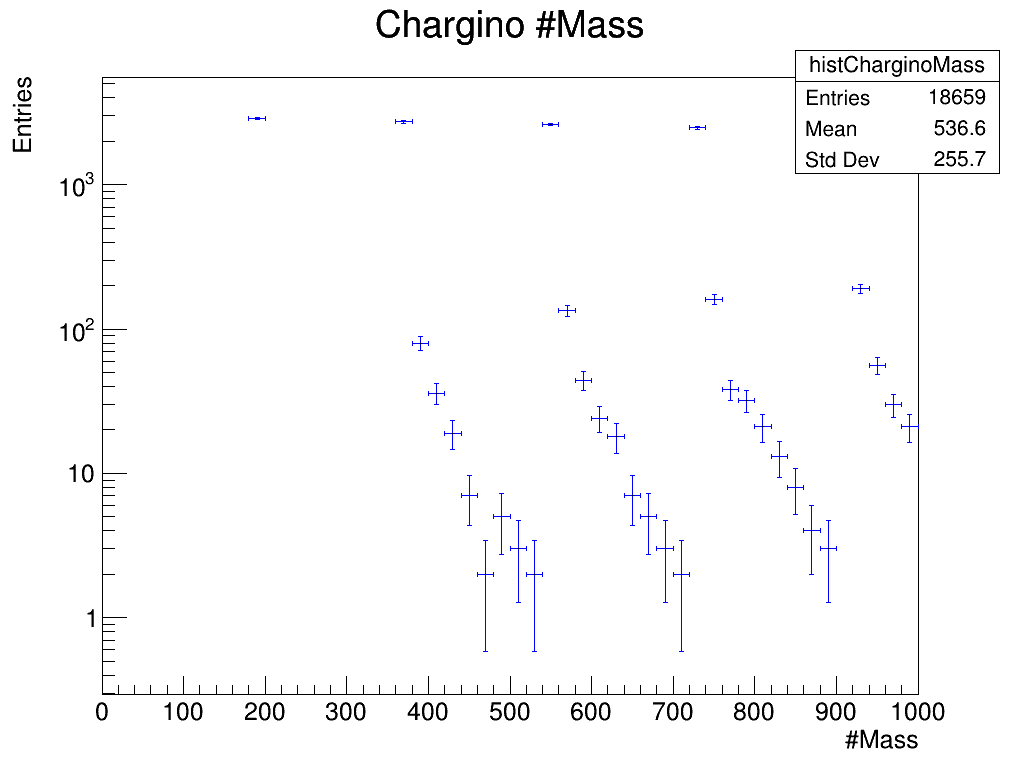
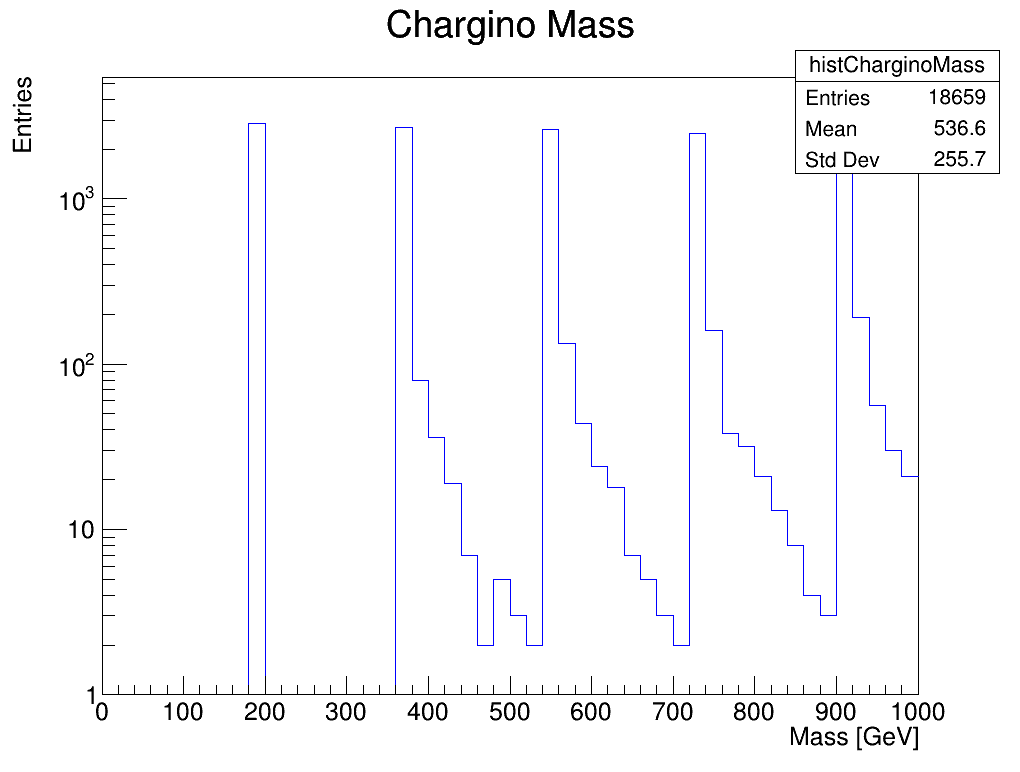
New modifications and plots

diff --git a/ExpPhysFinalProyect/SecondReport/Code/SecondReport_Plotting.C b/ExpPhysFinalProyect/SecondReport/Code/SecondReport_Plotting.C
@@ -26,7 +26,7 @@ void SecondReport_Plotting()
   	histCharginoPT_Data -> GetXaxis() -> SetTitle("p_{T} [GeV]");
   	histCharginoPT_Data -> GetYaxis() -> SetTitle("Entries");
   	histCharginoPT_Data -> GetYaxis() -> SetTitleOffset(1.4);
-  	histCharginoPT_Data -> Draw("e1");
+  	histCharginoPT_Data -> Draw();
 
   	c -> SaveAs("histCharginoPT.png");
 
@@ -52,7 +52,7 @@ void SecondReport_Plotting()
   	histCharginoE_Data -> GetXaxis() -> SetTitle("E [GeV]");
   	histCharginoE_Data -> GetYaxis() -> SetTitle("Entries");
   	histCharginoE_Data -> GetYaxis() -> SetTitleOffset(1.4);
-  	histCharginoE_Data -> Draw("e1");
+  	histCharginoE_Data -> Draw();
 
   	c -> SaveAs("histCharginoE.png");
 
@@ -78,7 +78,7 @@ void SecondReport_Plotting()
   	histCharginoEta_Data -> GetXaxis() -> SetTitle("#eta");
   	histCharginoEta_Data -> GetYaxis() -> SetTitle("Entries");
   	histCharginoEta_Data -> GetYaxis() -> SetTitleOffset(1.4);
-  	histCharginoEta_Data -> Draw("e1");
+  	histCharginoEta_Data -> Draw();
 
   	c -> SaveAs("histCharginoEta.png");
 
@@ -104,7 +104,7 @@ void SecondReport_Plotting()
   	histCharginoPhi_Data -> GetXaxis() -> SetTitle("#phi");
   	histCharginoPhi_Data -> GetYaxis() -> SetTitle("Entries");
   	histCharginoPhi_Data -> GetYaxis() -> SetTitleOffset(1.4);
-  	histCharginoPhi_Data -> Draw("e1");
+  	histCharginoPhi_Data -> Draw();
 
   	c -> SaveAs("histCharginoPhi.png");
 
@@ -126,11 +126,11 @@ void SecondReport_Plotting()
   	
 	histCharginoMass_Data  -> SetLineColor(kBlue);
 
-  	histCharginoMass_Data -> SetTitle("Chargino #Mass");
-  	histCharginoMass_Data -> GetXaxis() -> SetTitle("#Mass");
+  	histCharginoMass_Data -> SetTitle("Chargino Mass");
+  	histCharginoMass_Data -> GetXaxis() -> SetTitle("Mass [GeV]");
   	histCharginoMass_Data -> GetYaxis() -> SetTitle("Entries");
   	histCharginoMass_Data -> GetYaxis() -> SetTitleOffset(1.4);
-  	histCharginoMass_Data -> Draw("e1");
+  	histCharginoMass_Data -> Draw();
 
   	c -> SaveAs("histCharginoMass.png");
 
